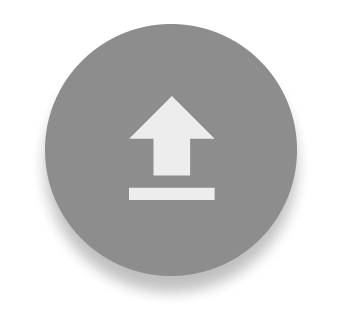
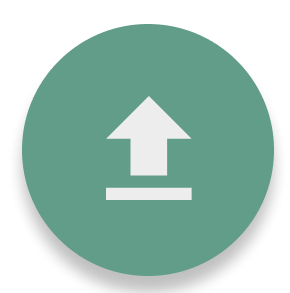
change some button

diff --git a/frontend/screens/General/GeneralDetail.js b/frontend/screens/General/GeneralDetail.js
@@ -115,7 +115,8 @@ function GeneralDetailsScreen ({ route, navigation }) {
                   <TouchableOpacity 
                       style={styles.buttons}
                       >
-                      <Text style = {styles.buttonText}>request</Text>
+                      <Image
+                        source = {require('../../assets/general/request.png')}/>
                   </TouchableOpacity>
               </View>
                            
@@ -149,14 +150,10 @@ const styles = StyleSheet.create({
     width: "25%",
     height: 42,
     borderRadius: 8,
-    backgroundColor: colors.function_100,
+    backgroundColor: 'transparent',
     alignItems: 'center',
     justifyContent: 'center',
-    shadowColor: colors.mono_100,
-    shadowOffset: { width: 10, height: 10 },
-    shadowOpacity: 0.5,
-    shadowRadius: 0,
-    elevation: 3,
+  
   },
   button:{
     width: "10%", 

diff --git a/frontend/apollo.js b/frontend/apollo.js
@@ -2,7 +2,7 @@ import { ApolloClient, InMemoryCache, createHttpLink } from '@apollo/client';
 import { setContext } from '@apollo/client/link/context';
 import AsyncStorage from '@react-native-async-storage/async-storage';
 
-  const URI = 'http://1e6501a535eb.ngrok.io';
+  const URI = 'http://d8ffd91bab47.ngrok.io';
 
 
   const httpLink = createHttpLink({
